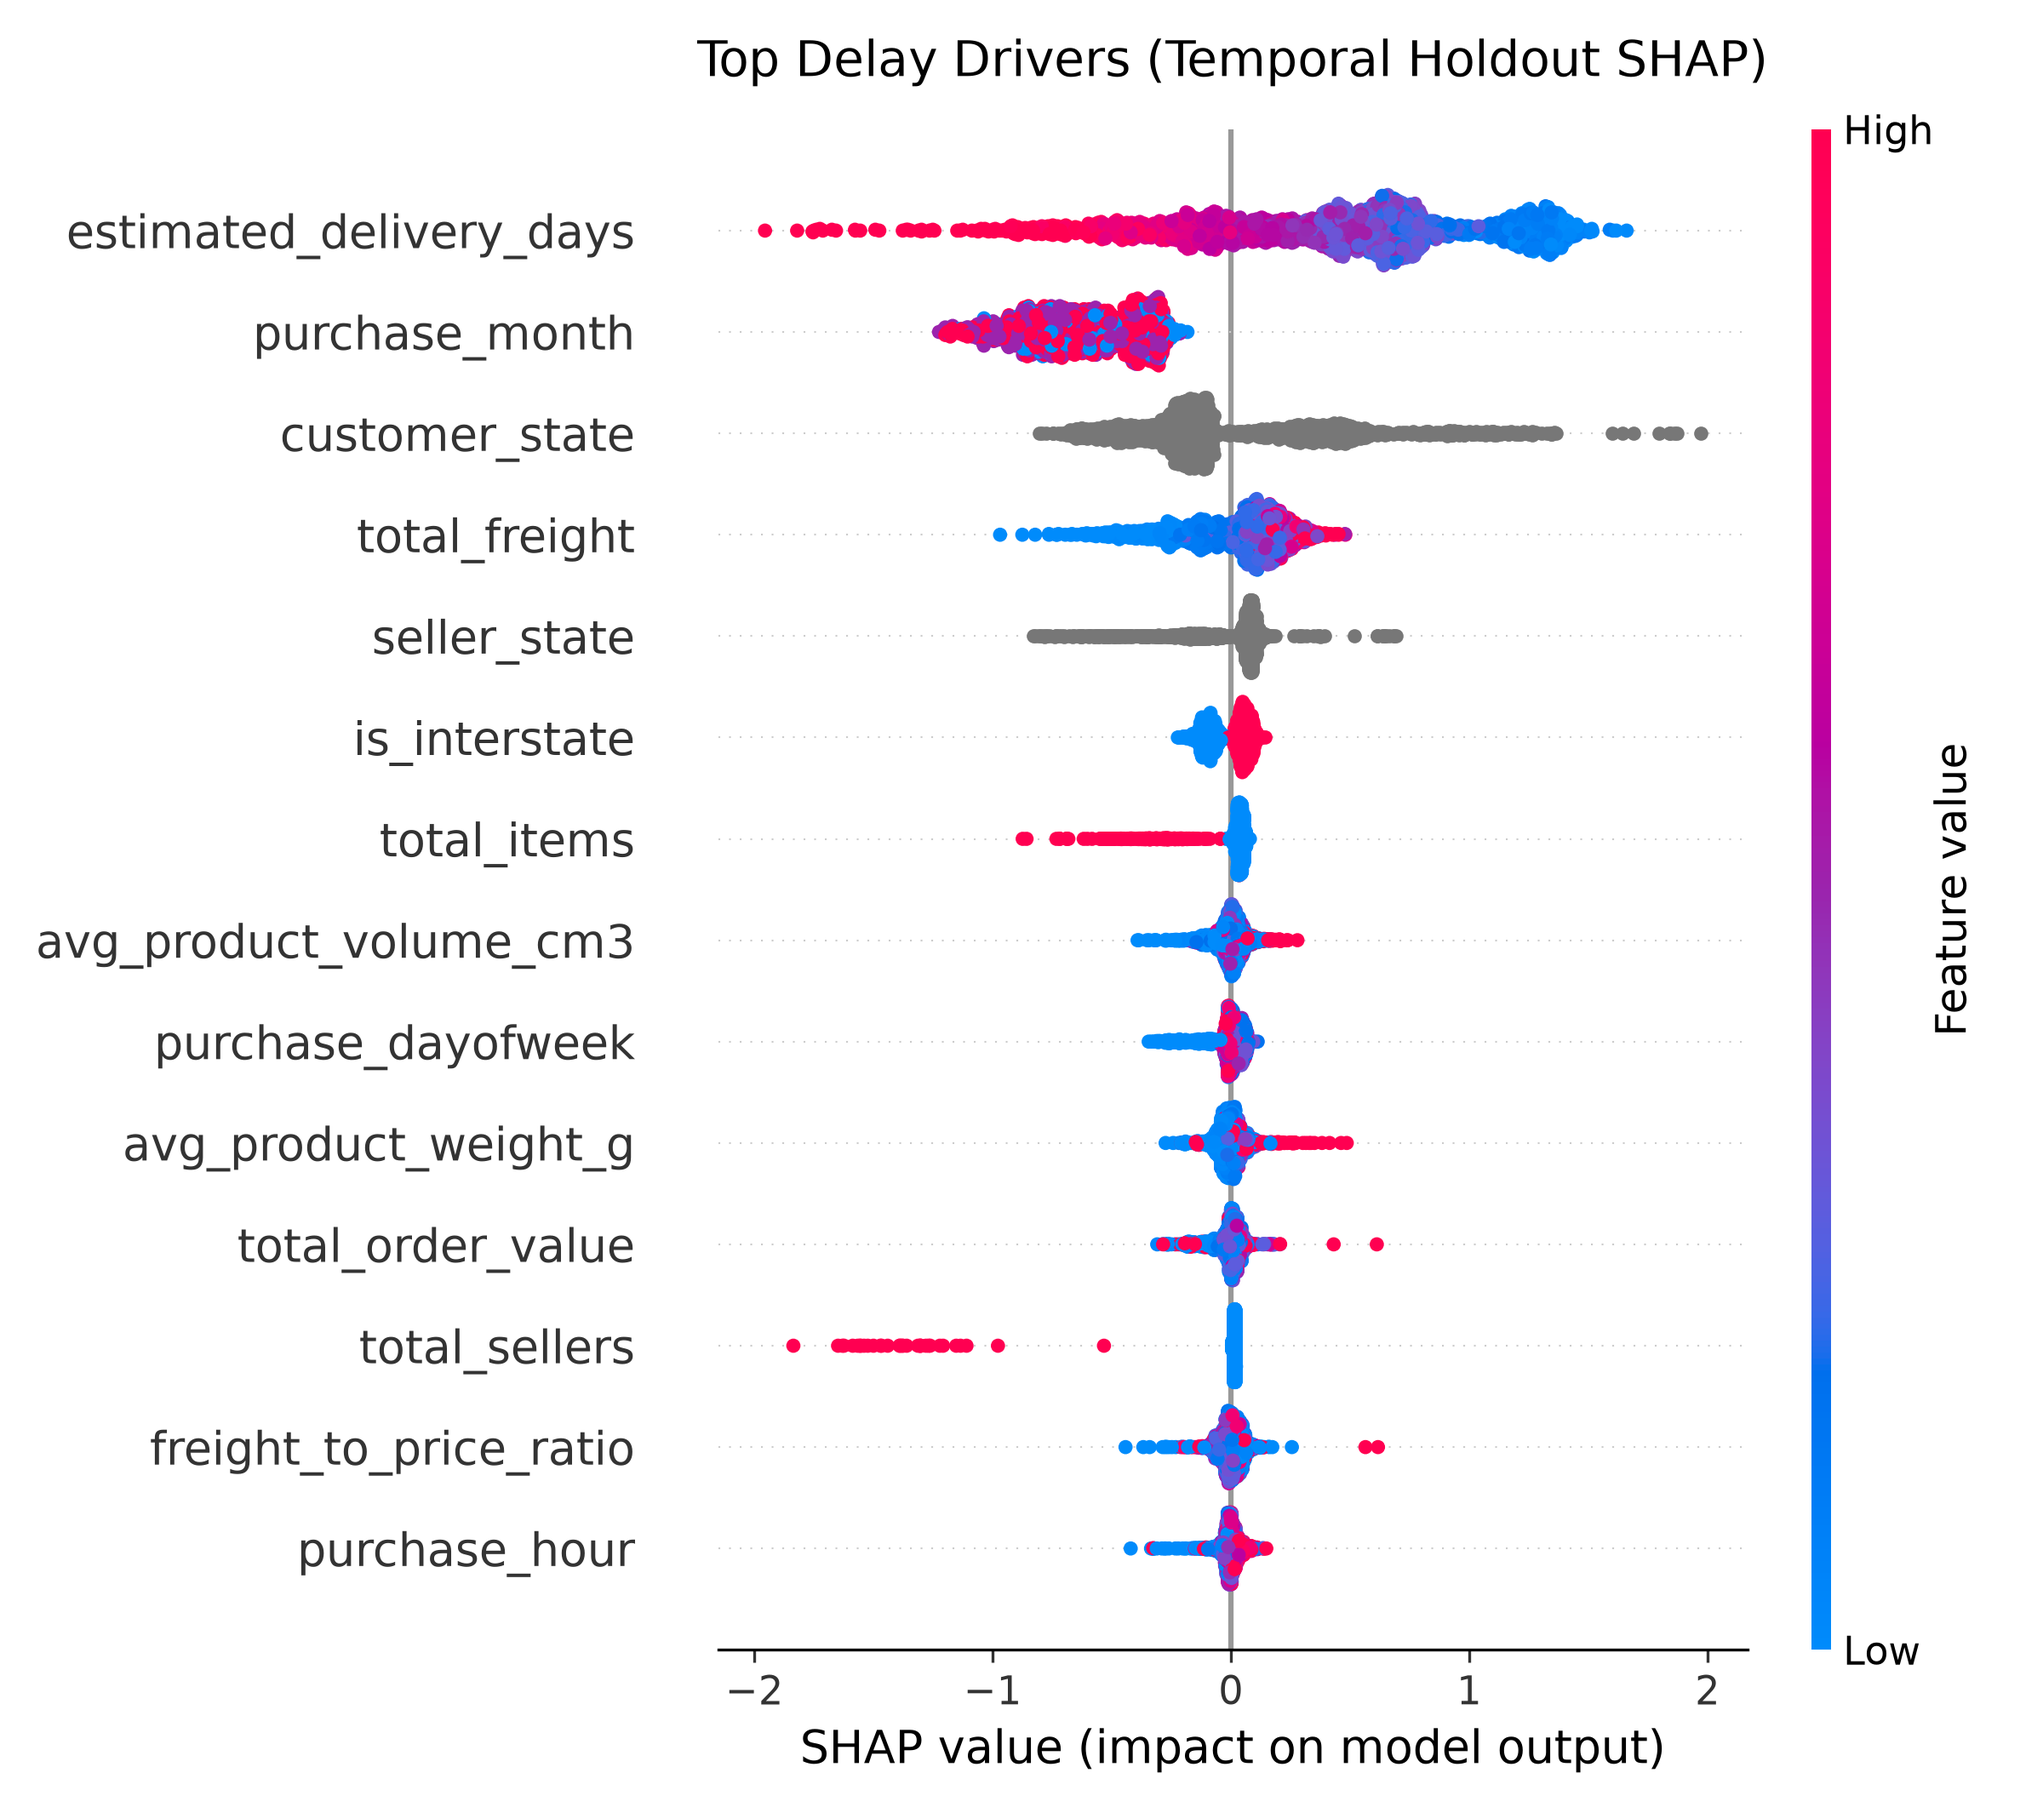
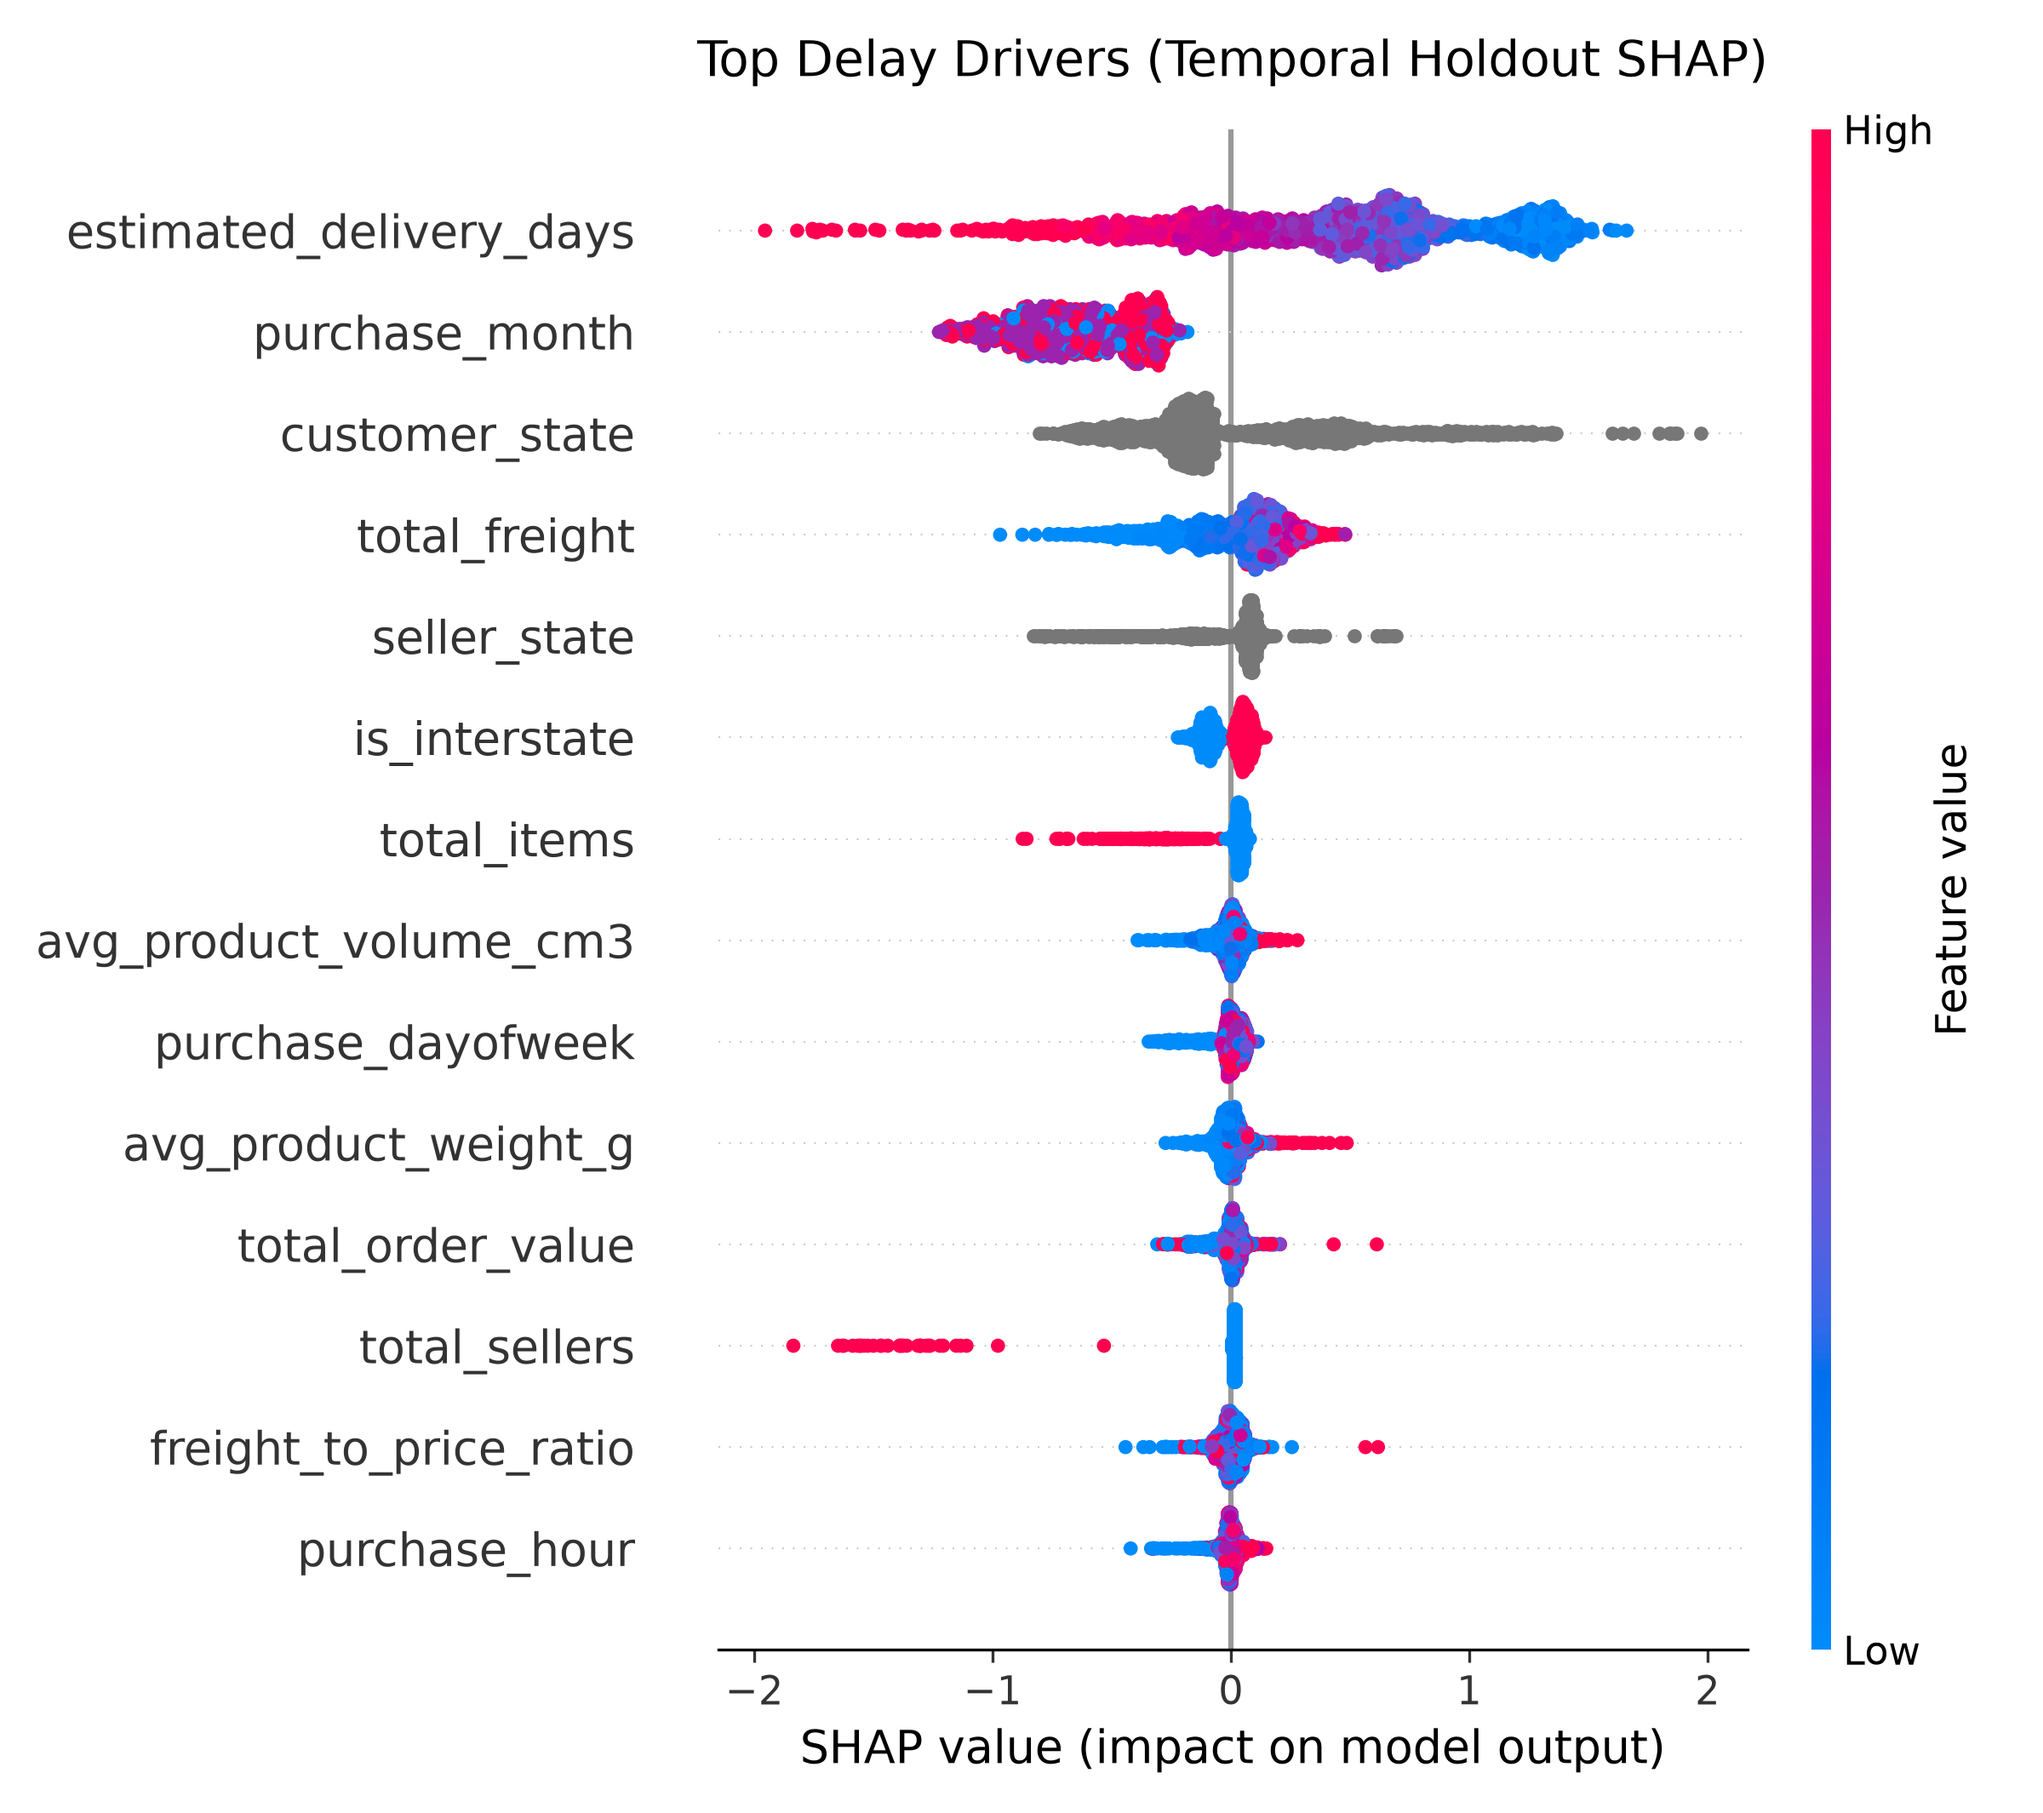
structure

diff --git a/run_pipeline.py b/run_pipeline.py
@@ -1,6 +1,72 @@
+# import subprocess
+# import sys
+# import time
+
+# PIPELINE_STEPS = [
+#     ("1. Database Ingestion", "1_load_db.py"),
+#     ("2. Baseline Business Audit", "2_audit_baseline.py"),
+#     ("3. Feature Engineering & SQL Indexing", "3_feature_engineering.py"),
+#     ("4. Model Training & Out-of-Time Evaluation", "4_train_model.py"),
+#     ("5. SHAP Explainability & Summary Plot", "5_shap_analysis.py"),
+# ]
+
+# def run():
+#     print("=" * 65)
+#     print("  OLIST DELAY PREDICTION ENGINE: END-TO-END PIPELINE")
+#     print("=" * 65)
+    
+#     total_start = time.time()
+    
+#     for step_num, (desc, script_name) in enumerate(PIPELINE_STEPS, 1):
+#         print(f"\n[{step_num}/{len(PIPELINE_STEPS)}] Executing: {desc} ({script_name})...")
+#         step_start = time.time()
+        
+#         result = subprocess.run([sys.executable, script_name], capture_output=False)
+        
+#         if result.returncode != 0:
+#             print(f"\nPipeline halted at step: {script_name} (Exit Code: {result.returncode})")
+#             sys.exit(result.returncode)
+            
+#         elapsed = time.time() - step_start
+#         print(f"Completed {script_name} in {elapsed:.1f}s")
+        
+#     total_time = time.time() - total_start
+#     print("\n" + "=" * 65)
+#     print(f"Complete pipeline finished successfully in {total_time:.1f}s!")
+#     print("=" * 65)
+
+# if __name__ == "__main__":
+#     run()
+
 import subprocess
 import sys
 import time
+
+REQUIRED_PACKAGES = [
+    "pandas",
+    "numpy",
+    "lightgbm",
+    "scikit-learn",
+    "shap",
+    "matplotlib",
+    "python-docx"
+]
+
+def ensure_dependencies():
+    """Checks for required libraries and installs any missing ones automatically."""
+    missing = []
+    for pkg in REQUIRED_PACKAGES:
+        # Normalize import names
+        mod_name = "sklearn" if pkg == "scikit-learn" else ("docx" if pkg == "python-docx" else pkg)
+        try:
+            __import__(mod_name)
+        except ImportError:
+            missing.append(pkg)
+            
+    if missing:
+        print(f"Installing missing packages: {', '.join(missing)}...")
+        subprocess.check_call([sys.executable, "-m", "pip", "install", *missing])
+        print("All dependencies satisfied.\n")
 
 PIPELINE_STEPS = [
     ("1. Database Ingestion", "1_load_db.py"),
@@ -11,6 +77,8 @@ PIPELINE_STEPS = [
 ]
 
 def run():
+    ensure_dependencies()
+
     print("=" * 65)
     print("  OLIST DELAY PREDICTION ENGINE: END-TO-END PIPELINE")
     print("=" * 65)
